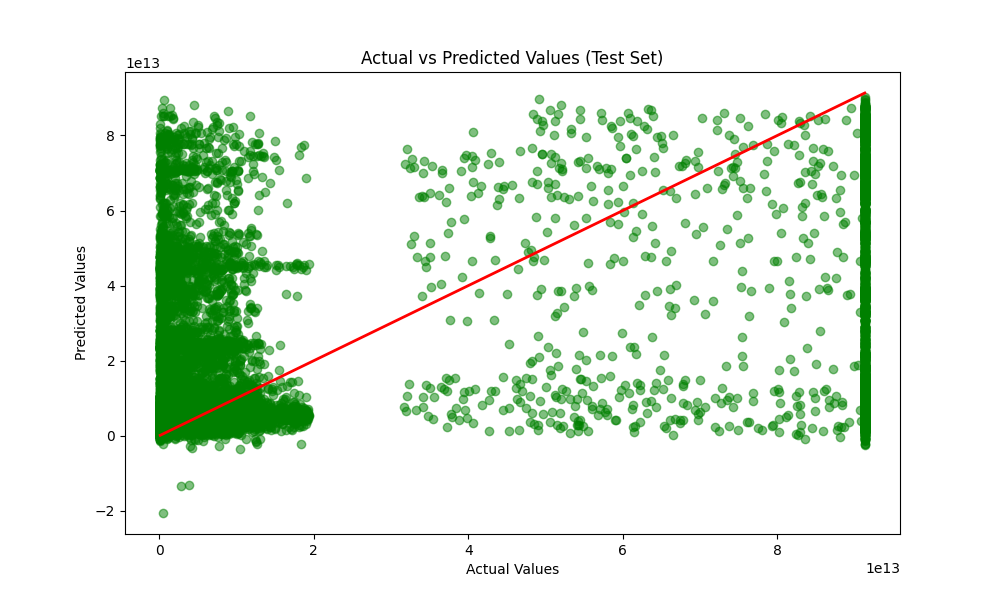
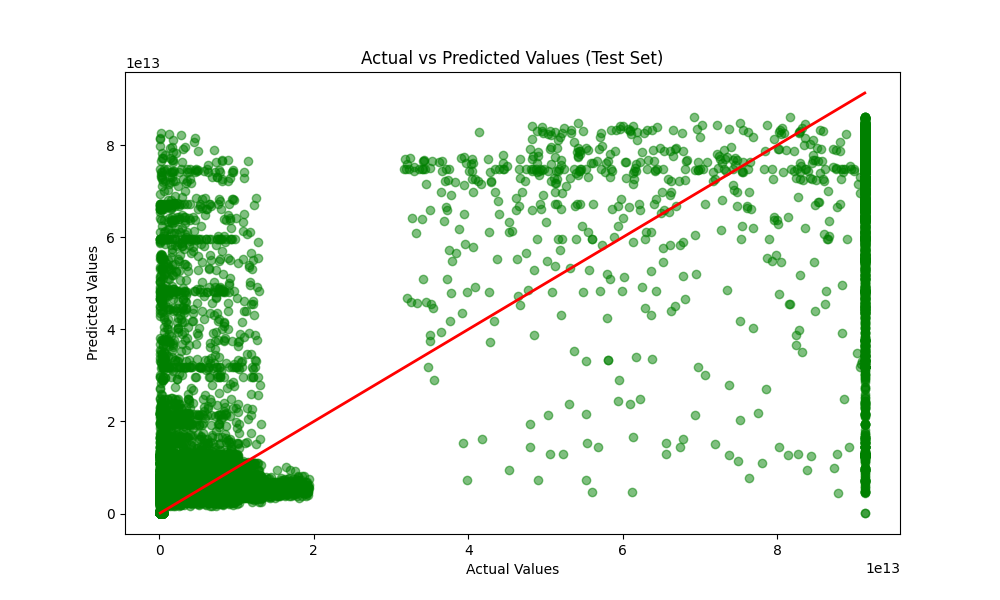
RandomForest Best Experiment so far

diff --git a/src/data/data_preprocessing.py b/src/data/data_preprocessing.py
@@ -97,6 +97,26 @@ def one_hot_encoder(df:pd.DataFrame)->pd.DataFrame:
 
     # Dropping the original Insurance column
     df.drop('Insurance', axis=1, inplace=True)
+
+
+
+
+        #Assuming 'dataset' is your original dataframe
+
+    # Initialize the OneHotEncoder
+    encoder = OneHotEncoder(sparse_output=False, drop='first')  # drop='first' to avoid the dummy variable trap
+
+    # Reshape the 'Specialty' column to a 2D array (necessary for sklearn)
+    specialty_encoded = encoder.fit_transform(df[['Specialty']])
+
+    # Convert the encoded array into a DataFrame with column names as the unique values in 'Specialty'
+    encoded_df = pd.DataFrame(specialty_encoded, columns=encoder.get_feature_names_out(['Specialty']))
+
+    # Concatenate the encoded columns with the original dataset (excluding the original 'Specialty' column)
+    df = pd.concat([df.drop('Specialty', axis=1), encoded_df], axis=1)
+
+    # Checking the first few rows of the updated dataset
+    # df_encoded.head()
     return df
   
   except Exception as e:
@@ -192,6 +212,7 @@ def load_params(params_path:str):
         raise Exception(f"Error loading parameters from {params_path}  : {e}")
 
 
+
 def main():
     # General Excepetion
     try:
@@ -233,7 +254,7 @@ def main():
             
 
         #Applying encoding functions for training & testing sets
-        encoding_funcs = [target_encoder,label_encoder,one_hot_encoder]
+        encoding_funcs = [label_encoder,one_hot_encoder]
 
         for function in encoding_funcs:
             train_data_processed= function(train_data_processed)
@@ -241,7 +262,7 @@ def main():
 
         #Applying scaler function for training & testing sets
 
-        features_to_scale = ["Severity","Age","Marital Status","Specialty"]
+        features_to_scale = ["Severity","Age","Marital Status"]
         train_data_processed= scaler(train_data_processed,features_to_scale)
         test_data_processed=  scaler  (test_data_processed,features_to_scale)
 
@@ -270,6 +291,9 @@ def main():
         save_data(train_data_processed,os.path.join(processed_data_path,"train_processed.csv"))
         save_data(test_data_processed,os.path.join(processed_data_path,"test_processed.csv"))
         print(train_data_processed.info())
+
+        train_data_processed.hist(bins =50 ,figsize=(12,8))
+        plt.show()
     except Exception as e :
         raise Exception(f"An Error occured : {e}")
 

diff --git a/src/models/model_evaluation.py b/src/models/model_evaluation.py
@@ -87,7 +87,7 @@ def evaluation_model(model,X_test: pd.DataFrame,Y_test :pd.Series,X_train: pd.Da
         # Logging experiment results
         with Live(save_dvc_exp=True) as live:
             live.log_metric("r2_test",r2_test)
-
+            live.log_metric("r2_train",r2_train)
             live.log_param("test_size",test_size)
             live.log_param("kwargs",kwargs)
             live.log_param("model_name",model_name)
@@ -113,7 +113,7 @@ def save_metrics(metrics_dict:dict,metrics_path:str)->None:
         raise Exception(f"Error saving metrics to {metrics_path} : {e}")
 
 # Main function
-
+x=421412
 def main():
     try:
         # Defining data , model and metrics paths

diff --git a/src/models/model_building.py b/src/models/model_building.py
@@ -100,8 +100,9 @@ def main():
         # Training the model & fitting the data
 
 
-        model =train_model(x_train,y_train,model_name=model_name,kwargs=model_kwargs)
 
+        model_train =  RandomForestRegressor(bootstrap=True,n_estimators=271,max_depth=13,min_samples_leaf=1,min_samples_split=18)# train_model(x_train,y_train,model_name=model_name,kwargs=model_kwargs)
+        model = model_train.fit(x_train,y_train)
         # Saving the model
         save_model(model,model_save_path)
 
